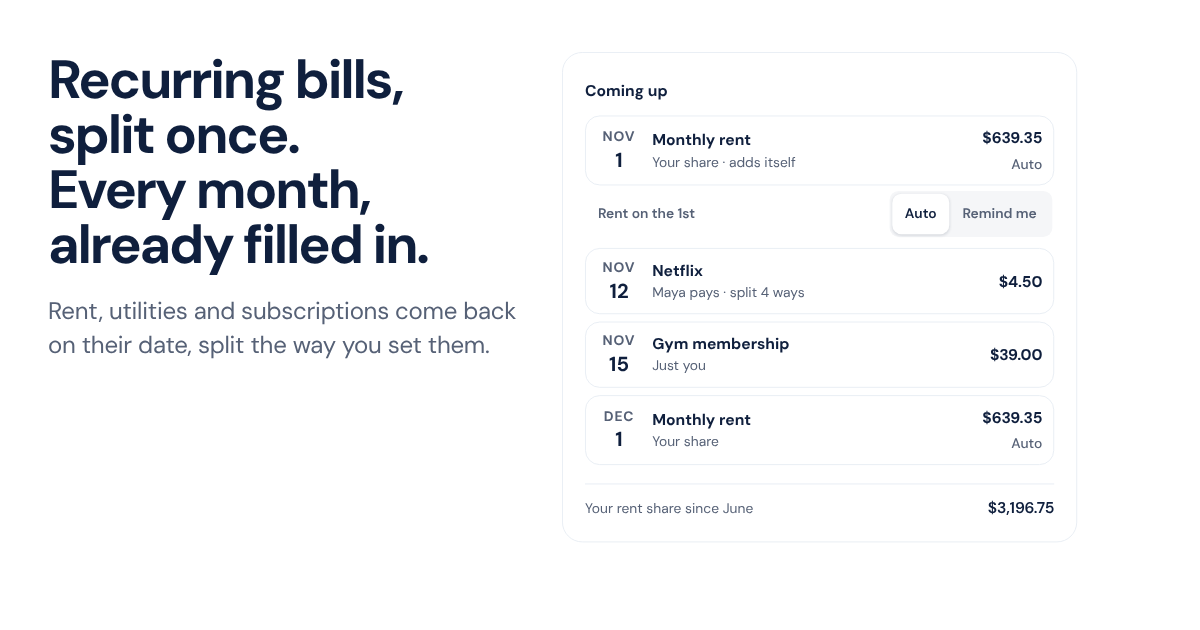
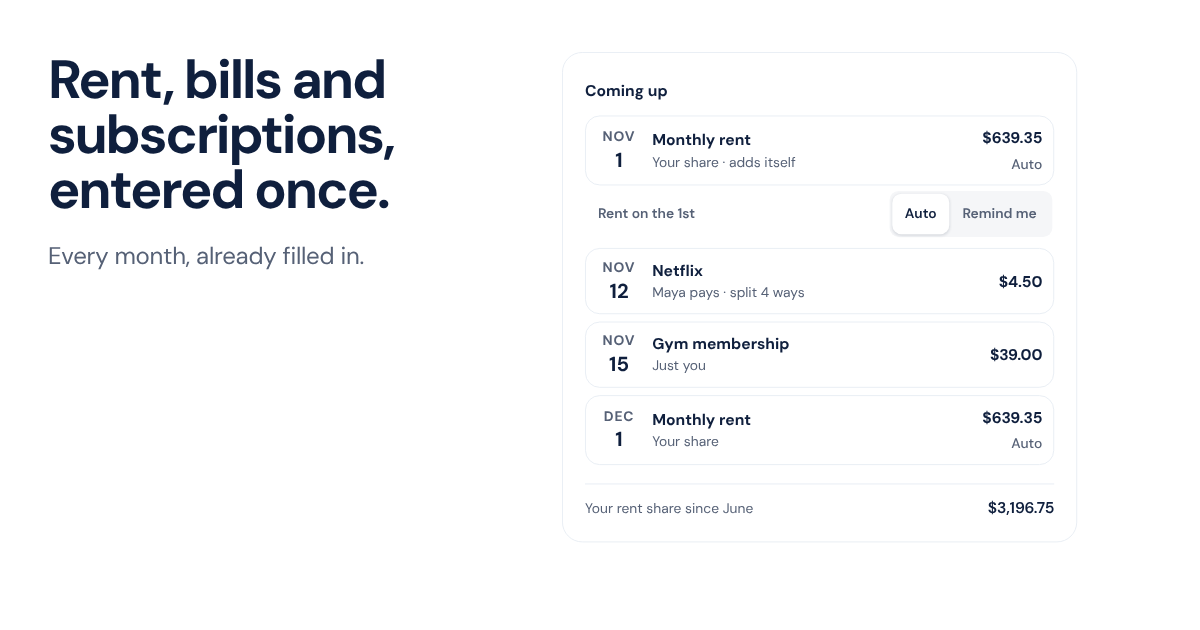
Wording: vegetarian sample receipt; /recurring covers personal and shared bills (#20)
* Vegetarian hero receipt line; /recurring covers personal and shared bills

Green Basket sample: EGGS LARGE 18CT becomes TOFU FIRM 2PK at the same
5.48, same split and category, so every total and share is unchanged
($97.63 subtotal, $100.00 total; You $30, Maya $30, Jordan $20, Sam $20).
The pre-rendered green-basket.png, green-basket.webp and
thumb-green-basket.webp still show the old line and need re-rendering.

/recurring: title, descriptions, h1, step 1 and closing line no longer
frame repeating bills as splitting only.

Claude-Session: https://claude.ai/code/session_011smy4DbN36sC6ek2KMHW6o

* Tofu on the sample receipt image; /recurring share image and wording

Green Basket receipt pictures: green-basket.webp (the home page's
no-JavaScript fallback), green-basket.png and thumb-green-basket.webp
now print TOFU FIRM 2PK at 5.48, as the JSON sample does. Re-rendered
from the JSON with receiptHTML() and receipt.css at 364x855 @2x, rotated
-1.2deg on the same backdrop; with the old first line the render matches
the old picture to within 15 levels per pixel, so only that line differs.
14 items, total $100.00 unchanged.

og/recurring.png: headline and line under it are now the page's h1 and
lede ("Rent, bills and subscriptions, entered once." / "Every month,
already filled in."), set as the old text was (DM Sans 700 54px, muted
24px). The "Coming up" card is the old image's own pixels.

/recurring: step 1 reads "Just yours or shared. A split comes with it."
[…]

Changed region(s): [[0.0308, 0.0905, 0.37, 0.4524], [0.0308, 0.4825, 0.4317, 0.5127], [0.0308, 0.5429, 0.4008, 0.573]]

diff --git a/public/recurring.html b/public/recurring.html
@@ -7,21 +7,21 @@
   document.documentElement.classList.add('js');
 </script>
 <meta name="viewport" content="width=device-width, initial-scale=1, viewport-fit=cover">
-<title>Split recurring bills and subscriptions | Trezzit</title>
-<meta name="description" content="Rent, utilities and subscriptions repeat with their split. Each one adds itself on its due date, or waits for you.">
+<title>Recurring bills and subscriptions, yours or shared | Trezzit</title>
+<meta name="description" content="Rent, utilities and subscriptions repeat, just yours or split. Each one adds itself on its due date, or waits for you.">
 <link rel="canonical" href="https://trezzit.com/recurring">
 <meta property="og:type" content="website">
 <meta property="og:site_name" content="Trezzit">
 <meta property="og:url" content="https://trezzit.com/recurring">
-<meta property="og:title" content="Split recurring bills and subscriptions">
-<meta property="og:description" content="Rent, utilities and subscriptions repeat with their split. Each one adds itself on its due date, or waits for you.">
+<meta property="og:title" content="Recurring bills and subscriptions, yours or shared">
+<meta property="og:description" content="Rent, utilities and subscriptions repeat, just yours or split. Each one adds itself on its due date, or waits for you.">
 <meta property="og:image" content="https://trezzit.com/assets/og/recurring.png">
 <meta property="og:image:width" content="1200">
 <meta property="og:image:height" content="630">
 <meta property="og:image:alt" content="Coming up: monthly rent on Nov 1, your share $639.35; Netflix on Nov 12, $4.50; a gym membership on Nov 15, $39.00.">
 <meta name="twitter:card" content="summary_large_image">
-<meta name="twitter:title" content="Split recurring bills and subscriptions">
-<meta name="twitter:description" content="Rent, utilities and subscriptions repeat with their split. Each one adds itself on its due date, or waits for you.">
+<meta name="twitter:title" content="Recurring bills and subscriptions, yours or shared">
+<meta name="twitter:description" content="Rent, utilities and subscriptions repeat, just yours or split. Each one adds itself on its due date, or waits for you.">
 <meta name="twitter:image" content="https://trezzit.com/assets/og/recurring.png">
 <meta name="color-scheme" content="light dark">
 <meta name="theme-color" content="#ffffff" media="(prefers-color-scheme: light)">
@@ -135,7 +135,7 @@
   <div class="wrap">
     <div class="sc-copy">
       <nav class="crumbs" aria-label="Breadcrumb"><ol><li><a href="/">Trezzit</a></li><li><span aria-current="page">Recurring bills</span></li></ol></nav>
-      <h1 id="pg-t">Rent, bills and subscriptions, split&nbsp;once.</h1>
+      <h1 id="pg-t">Rent, bills and subscriptions, entered&nbsp;once.</h1>
       <p class="lede">Every month, already filled&nbsp;in.</p>
       <div class="cta-row cta-left"><a class="c-btn c-btn-primary c-btn-lg" href="https://app.trezzit.com/signup">Set up a repeating bill</a></div>
       <p class="micro">Free. No bank login.</p>
@@ -167,7 +167,7 @@
   <div class="wrap">
     <header class="sh"><h2 id="how-t">How repeating bills work.</h2></header>
     <ol class="pg-steps">
-      <li><h3>Any bill can repeat.</h3><p>Weekly, monthly, quarterly or yearly. The split comes with it.</p></li>
+      <li><h3>Any bill can repeat.</h3><p>Weekly, monthly, quarterly or yearly. Just yours or shared. A split comes with it.</p></li>
       <li><h3>Auto or Remind me.</h3><p>Auto adds it on the due date. Remind me waits for you to check it.</p></li>
       <li><h3>Skip a month, or end it.</h3><p>Skip a month nobody paid. Ending keeps every month it already added.</p></li>
     </ol>
@@ -190,7 +190,7 @@
 
 <section class="close close-end pg-close" aria-label="Get started">
   <div class="wrap">
-    <p class="close-h">Set it once. Split every&nbsp;month.</p>
+    <p class="close-h">Set it once. Back every&nbsp;month.</p>
     <div class="cta-row"><a class="c-btn c-btn-primary c-btn-lg" href="https://app.trezzit.com/signup">Set up a repeating bill</a></div>
     <p class="micro">Free. No bank login.</p>
   </div>
